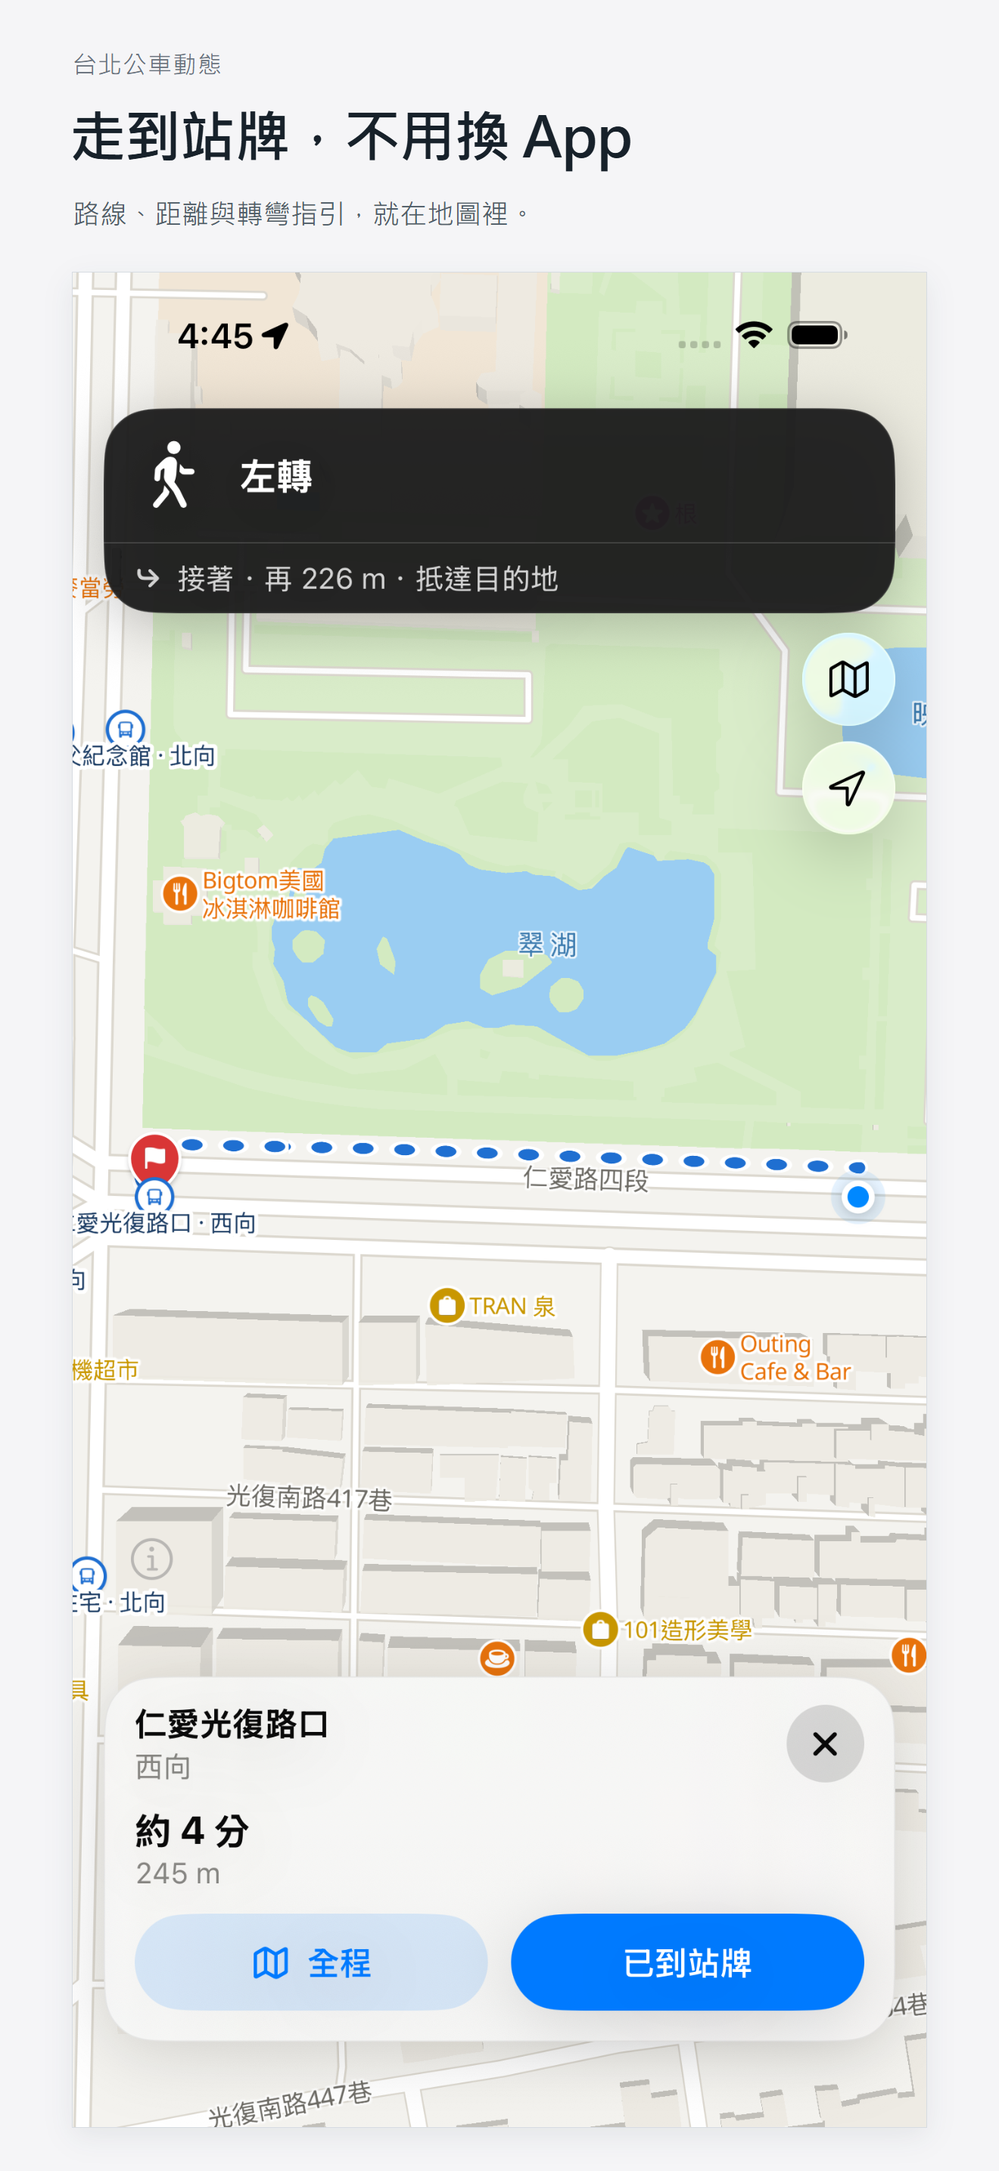
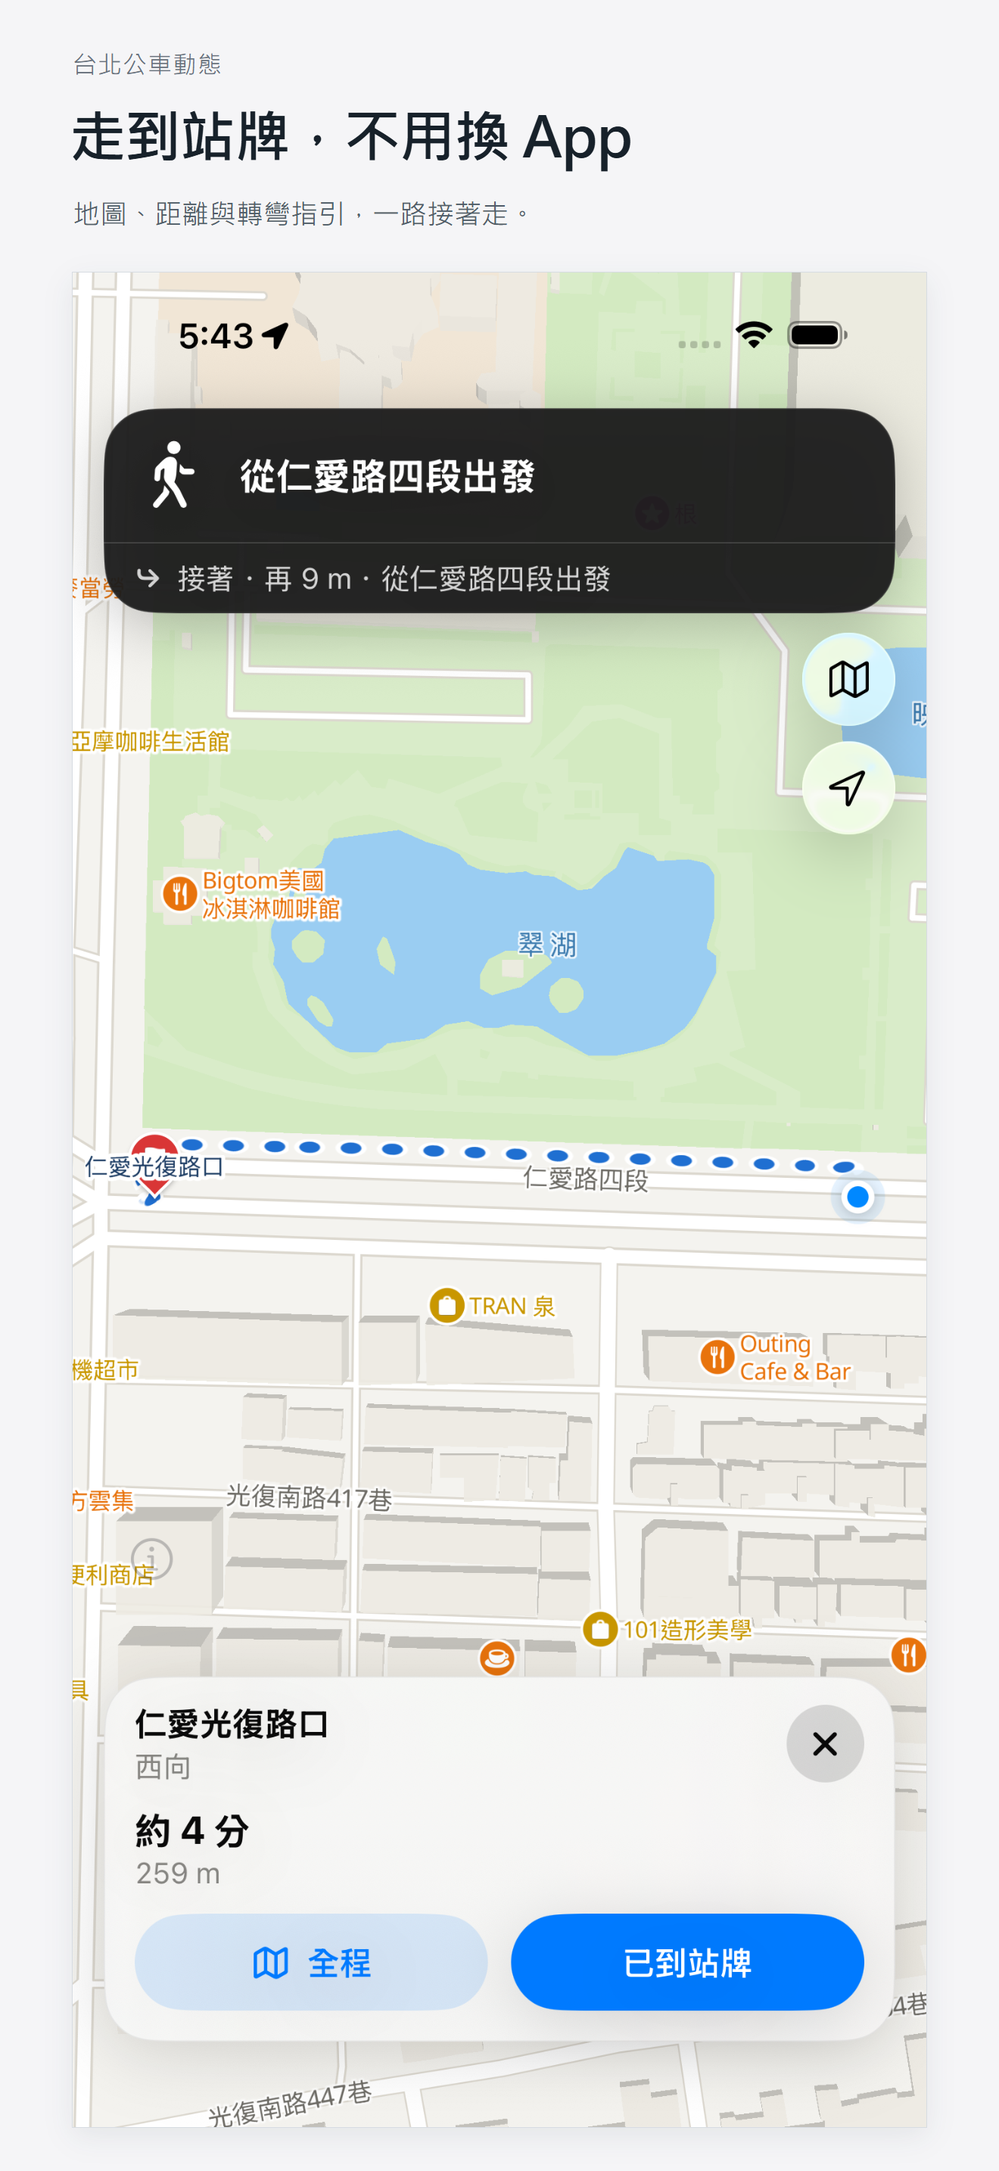
Release 1.8.9 with refreshed App Store gallery and complete Pro submission (#50)
* Prepare fresh subscription review snapshots and real YouBike store captures

* Reuse Apple retained subscription drafts after developer withdrawal

* Authorize 1.8.9 App Store release with current mixed-transit and Pro copy

* Keep App Review instructions within Apple field limit

* Capture current YouBike connections through normal destination search

* Refresh walking marketing capture and restore normal route-preview capture flow

* Keep completed empty route results actionable and capture genuine live bike stations

* Describe the completed empty-results guidance in 1.8.9 release copy [skip ci]

* Add real YouBike station artwork and refresh the approved 3D-first gallery [skip ci]

* Pin App Store 1.8.9 to verified build 149.1.0 and preserve crash symbols [skip ci]

diff --git a/ios/usability/JourneyUsabilityTests.swift b/ios/usability/JourneyUsabilityTests.swift
@@ -521,9 +521,16 @@ final class AppStoreScreenshotTests: JourneyUsabilityTestBase {
         capture("store-12-in-app-walking")
     }
     func testStoreRealDestinationAndItinerary() {
-        launch(["--test-map-controls", "--test-journey-selection", "--preview-neihu-planning"])
+        launch(["--test-map-controls", "--test-journey-selection"])
+        XCTAssertTrue(button("home-destination-search").waitForExistence(timeout: 90))
+        button("home-destination-search").tap(); chooseNeihu()
         let choices = app.buttons.matching(NSPredicate(format:"identifier == %@ OR identifier == %@","journey-all-options","journey-options")).firstMatch
-        XCTAssertTrue(choices.waitForExistence(timeout:90))
+        if !choices.waitForExistence(timeout:90) {
+            XCTAssertTrue(button("journey-retry-search").waitForExistence(timeout: 15))
+            XCTAssertTrue(button("journey-empty-other-transport").exists)
+            capture("store-real-search-closed-service-next-steps")
+            return
+        }
         choices.tap()
         XCTAssertTrue(firstOption.waitForExistence(timeout: 60))
         waitForConfirmedChoices()
@@ -539,6 +546,66 @@ final class AppStoreScreenshotTests: JourneyUsabilityTestBase {
         button("journey-back").tap()
         XCTAssertTrue(button("journey-all-options").waitForExistence(timeout:15))
         capture("store-05-boarding-map")
+    }
+    func testStoreRealYouBikeConnection() {
+        // Real station availability and production routing, with no mock fleet or
+        // synthetic dock counts. This capture must never use --usability-fixture.
+        launch(["--test-map-controls", "--test-journey-selection"])
+        XCTAssertTrue(button("home-destination-search").waitForExistence(timeout: 90))
+        // Use an actual rendered station pin and its fresh operator report. This
+        // remains usable outside metro operating hours and never invents counts.
+        waitRenderedMap { state in
+            state["cameraMoving"] as? Bool == false && !(state["visibleBikePins"] as? [[String: Any]] ?? []).isEmpty
+        }
+        let probe = app.staticTexts["map-camera-state"]
+        let camera = try! JSONSerialization.jsonObject(with: probe.label.data(using: .utf8)!) as! [String: Any]
+        let pins = camera["visibleBikePins"] as? [[String: Any]] ?? []
+        let map = app.descendants(matching: .any).matching(identifier: "native-map").firstMatch
+        let card = app.descendants(matching: .any).matching(identifier: "bike-station-card").firstMatch
+        for pin in pins {
+            guard let x = pin["x"] as? Double, let y = pin["y"] as? Double,
+                  x > 25, x < map.frame.width - 80, y > 110, y < map.frame.height - 210 else { continue }
+            map.coordinate(withNormalizedOffset: .zero).withOffset(CGVector(dx: x, dy: y)).tap()
+            if card.waitForExistence(timeout: 4) { break }
+        }
+        XCTAssertTrue(card.waitForExistence(timeout: 10))
+        let report = app.staticTexts["bike-station-report"]
+        XCTAssertTrue(report.exists)
+        XCTAssertFalse(report.label.contains("資料延遲") || report.label.contains("資料更新中"))
+        capture("store-24-live-youbike-station")
+        button("bike-station-close").tap()
+        button("home-destination-search").tap()
+        chooseNeihu()
+        if !button("journey-all-options").waitForExistence(timeout: 100) {
+            XCTAssertTrue(button("journey-retry-search").waitForExistence(timeout: 15))
+            XCTAssertTrue(button("journey-empty-other-transport").exists)
+            capture("store-real-youbike-search-next-steps")
+            return
+        }
+        button("journey-all-options").tap()
+        XCTAssertTrue(firstOption.waitForExistence(timeout: 100)); waitForConfirmedChoices()
+        capture("store-20-mixed-transit-choices")
+        let bicycle = app.buttons.matching(NSPredicate(format: "identifier BEGINSWITH %@ AND (label CONTAINS %@ OR label CONTAINS %@)", "journey-option-", "YouBike", "騎車")).firstMatch
+        for _ in 0..<4 {
+            if bicycle.exists { break }
+            app.swipeUp()
+        }
+        // Availability and the current departure window can legitimately make a
+        // bike connection noncompetitive; the station capture is still genuine.
+        guard bicycle.waitForExistence(timeout: 10) else { return }
+        let id = String(bicycle.identifier.dropFirst("journey-option-".count))
+        bicycle.tap()
+        XCTAssertTrue(button("journey-steps-" + id).waitForExistence(timeout: 15))
+        capture("store-21-youbike-transit-map")
+        button("journey-steps-" + id).tap()
+        let pickup = app.buttons.matching(NSPredicate(format: "identifier BEGINSWITH %@", "journey-bike-pickup-")).firstMatch
+        for _ in 0..<3 { if pickup.isHittable { break }; app.swipeUp() }
+        XCTAssertTrue(pickup.isHittable)
+        capture("store-22-youbike-transit-steps")
+        pickup.tap()
+        XCTAssertTrue(app.descendants(matching: .any).matching(identifier: "bike-station-card").firstMatch.waitForExistence(timeout: 15))
+        XCTAssertTrue(app.staticTexts["bike-station-report"].exists)
+        capture("store-23-live-youbike-availability")
     }
     func testPrivacyAndSupportAreAccessible() {
         launch()

diff --git a/ios/TaipeiBus/JourneyViews.swift b/ios/TaipeiBus/JourneyViews.swift
@@ -885,11 +885,18 @@ struct JourneyOptionsView: View {
             if planner.planning || model.loading {
                 HStack(spacing: 10) { ProgressView(); Text(live.text("查詢中")).liveFont(.subheadline) }.padding(.vertical, 8)
             }
-            if let message = planner.message { Text(live.text(message)).liveFont(.subheadline).foregroundStyle(.secondary) }
-            if planner.options.isEmpty, planner.message != nil, !planner.planning, !planner.checkingWalks {
+            if let message = planner.message ?? (model.loading ? nil : planner.emptyOptionsMessage) {
+                Text(live.text(message)).liveFont(.subheadline).foregroundStyle(.secondary)
+                    .accessibilityIdentifier("journey-empty-options-message")
+            }
+            if planner.emptyOptionsMessage != nil, !model.loading {
                 Button { planner.plan(metadata:model.metadata) } label: {
                     Label(AppText.text("重新查詢"),systemImage:"arrow.clockwise").frame(minHeight:44)
                 }.buttonStyle(.bordered).accessibilityIdentifier("journey-retry-search")
+                Button { planner.openAppleTransit() } label: {
+                    Label(AppText.text("其他交通方式"), systemImage: "arrow.up.right.square").frame(minHeight:44)
+                }.buttonStyle(.bordered).padding(.top, 8)
+                    .accessibilityIdentifier("journey-empty-other-transport")
             }
             if compact, !planner.options.isEmpty {
                 // Keep the actions outside the paging collection. Its gesture handling and

diff --git a/ios/TaipeiBus/NativeBusMap.swift b/ios/TaipeiBus/NativeBusMap.swift
@@ -1244,6 +1244,16 @@ struct NativeBusMap: UIViewRepresentable {
                 state["walkingAboveBuildings"] = (layerIDs.firstIndex(of: "journey-walking-line") ?? 0) > (layerIDs.firstIndex(of: "building-3d") ?? 0)
                 state["selectedBikeStation"] = model.selectedBikeStationID ?? ""
                 state["selectedBikeReturning"] = model.selectedBikeStationReturning
+                var seenBikePins = Set<String>()
+                state["visibleBikePins"] = mapView.visibleFeatures(in: mapView.bounds, styleLayerIdentifiers: Set(["bike-station-dots", "bike-station-counts"]))
+                    .compactMap { feature -> [String: Any]? in
+                        guard let id = feature.attribute(forKey: "bikeStationID") as? String,
+                              seenBikePins.insert(id).inserted,
+                              let station = model.bikeNetwork.station(id),
+                              model.bikeDock(id)?.isFresh(at: Date()) == true else { return nil }
+                        let point = mapView.convert(station.coordinate.locationCoordinate, toPointTo: mapView)
+                        return ["id": id, "x": point.x, "y": point.y]
+                    }
                 state["plannedBikePins"] = (model.planner.selected?.walks.compactMap(\.bike) ?? []).flatMap { bike -> [[String: Any]] in
                     [(bike.pickup, false), (bike.dropoff, true)].map { station, returning in
                         let point = mapView.convert(station.coordinate.locationCoordinate, toPointTo: mapView)

diff --git a/ios/TaipeiBus/TransitHomeView.swift b/ios/TaipeiBus/TransitHomeView.swift
@@ -110,7 +110,7 @@ struct TransitHomeView: View {
                                 "duration_label": timing?.label ?? "", "waiting_label": timing?.waitingLabel ?? "",
                                 "arrival_label": timing?.arrivalLabel ?? ""]
                         }
-                        let value: [String: Any] = ["itinerary": showJourneyItinerary, "route_panel_open": showJourney, "checking": planner.checkingWalks, "selected": planner.selectedID ?? "", "started": planner.started, "step": planner.stepIndex, "suggestion": model.journeySuggestion?.id ?? "", "comparison_changed": planner.comparisonChanged, "options": records]
+                        let value: [String: Any] = ["itinerary": showJourneyItinerary, "route_panel_open": showJourney, "planning": planner.planning, "checking": planner.checkingWalks, "message": planner.message ?? "", "empty_message": planner.emptyOptionsMessage ?? "", "origin_ready": planner.origin != nil, "metadata_routes": model.metadata.routes.count, "selected": planner.selectedID ?? "", "started": planner.started, "step": planner.stepIndex, "suggestion": model.journeySuggestion?.id ?? "", "comparison_changed": planner.comparisonChanged, "options": records]
                         let data = try? JSONSerialization.data(withJSONObject: value, options: [.sortedKeys])
                         Text(data.map { String(decoding: $0, as: UTF8.self) } ?? "")
                             .font(.system(size: 1)).foregroundStyle(.clear).frame(width: 1, height: 1)

diff --git a/ios/billing/PlanningEngineTests.swift b/ios/billing/PlanningEngineTests.swift
@@ -170,6 +170,18 @@ import MapKit
         XCTAssertEqual(bike.remaining(meters:.nan).total,bike.totalSeconds)
         XCTAssertEqual(bike.remaining(meters:-1).total,0)
     }
+    func testClosedServicesCannotLeaveAnEmptyRouteSheetWithoutANextStep() {
+        let option = transit(), p = planner([option])
+        XCTAssertFalse(p.options.isEmpty)
+        XCTAssertNil(p.emptyOptionsMessage)
+        var closed = TransitSnapshot()
+        closed.estimates = EstimateFeed(seconds:["bus:busa":-3],updatedAt:Date())
+        p.updateSnapshot(closed); p.refreshRecommendations()
+        XCTAssertTrue(p.options.isEmpty)
+        XCTAssertNotNil(p.emptyOptionsMessage)
+        p.finish()
+        XCTAssertNil(p.emptyOptionsMessage, "Finishing a trip must not show an empty-result message on the home screen")
+    }
     func testStreetCacheExpiresAndWalkingAndCyclingRemainSeparate() async throws {
         let p = JourneyPlannerModel(), leg = WalkingLeg(from:a,to:b)
         var calls = 0

diff --git a/ios/TaipeiBus/JourneyPlannerModel.swift b/ios/TaipeiBus/JourneyPlannerModel.swift
@@ -161,6 +161,12 @@ final class JourneyPlannerModel: ObservableObject {
     @Published private(set) var selectedID: String?
     @Published private(set) var planning = false
     @Published private(set) var checkingWalks = false
+    /// A verified pool can still rank to no usable options (for example after
+    /// service ends). Never leave the completed route sheet blank in that case.
+    var emptyOptionsMessage: String? {
+        guard destination != nil, options.isEmpty, !planning, !checkingWalks else { return nil }
+        return message ?? "這趟行程暫無可用方案，可更換出發地或查看其他交通方式。"
+    }
     @Published private(set) var message: String?
     @Published private(set) var started = false
     @Published private(set) var stepIndex = 0

diff --git a/ios/release/review_bundle_test.rb b/ios/release/review_bundle_test.rb
@@ -4,16 +4,17 @@ require_relative 'review_bundle'
 class ReviewBundleTest < Minitest::Test
   class CatalogClient
     attr_reader :writes
-    attr_accessor :price, :screenshot_state, :drop_item, :state, :submitted_date
+    attr_accessor :price, :screenshot_state, :drop_item, :state, :submitted_date, :catalog_state
     def initialize
       @writes, @items, @created = [], [], false
       @price = '39'; @screenshot_state = 'COMPLETE'; @state = 'READY_FOR_REVIEW'
       @app_state, @counter = 'READY_FOR_REVIEW', 0
+      @catalog_state = 'PREPARE_FOR_SUBMISSION'
     end
     def all(path, query = {})
       case path
       when '/v1/apps/app/subscriptionGroups' then [row('group',referenceName:'Pro')]
-      when '/v1/subscriptionGroups/group/versions' then [row('gv',version:1,state:'PREPARE_FOR_SUBMISSION')]
+      when '/v1/subscriptionGroups/group/versions' then [row('gv',version:1,state:@catalog_state)]
       when '/v1/subscriptionGroupVersions/gv/localizations' then localizations
       when '/v1/subscriptionGroups/group/subscriptions'
         [row('month',productId:'pro.monthly',subscriptionPeriod:'ONE_MONTH'),row('year',productId:'pro.yearly',subscriptionPeriod:'ONE_YEAR')]
@@ -26,7 +27,7 @@ class ReviewBundleTest < Minitest::Test
         raise 'Trial validation must request the territory linkage' unless query['include'] == 'territory'
         [{'attributes'=>{'duration'=>'ONE_WEEK','offerMode'=>'FREE_TRIAL','numberOfPeriods'=>1},'relationships'=>{'territory'=>{'data'=>{'id'=>'TWN'}}}}]
       when %r{/v1/subscriptions/(month|year)/versions}
-        [row(path.include?('month') ? 'mv' : 'yv',version:1,state:'PREPARE_FOR_SUBMISSION')]
+        [row(path.include?('month') ? 'mv' : 'yv',version:1,state:@catalog_state)]
       when %r{/v1/subscriptionVersions/(mv|yv)/localizations} then localizations
       when '/v1/apps/app/reviewSubmissions' then @created ? [row('draft',state:@state,platform:'IOS',submittedDate:@submitted_date)] : []
       when '/v1/reviewSubmissions/draft/items'
@@ -82,6 +83,12 @@ class ReviewBundleTest < Minitest::Test
     bundle.prepare('app-version'); @client.writes.clear
     assert bundle.prepare('app-version')[:items_verified]
     assert_empty @client.writes
+  end
+  def test_developer_withdrawn_catalog_can_join_the_new_authorized_app_submission
+    @client.catalog_state = 'DEVELOPER_REJECTED'
+    assert bundle.prepare('app-version')[:items_verified]
+    assert_equal 4, @client.all('/v1/reviewSubmissions/draft/items', 'include'=>'appStoreVersion,subscriptionVersion,subscriptionGroupVersion').length
+    refute @client.writes.any? { |method,_,_| method == :patch }
   end
   def test_unapproved_price_stops_before_creating_a_review_draft
     @client.price = '49'

diff --git a/ios/release/subscription_draft_test.rb b/ios/release/subscription_draft_test.rb
@@ -1,0 +1,41 @@
+require 'minitest/autorun'
+require_relative 'subscription_draft'
+
+class SubscriptionDraftTest < Minitest::Test
+  class Client
+    attr_reader :writes
+    def initialize(states)
+      @versions = states.each_with_index.map { |state, i| { 'id' => "v#{i}", 'attributes' => { 'state' => state, 'version' => i + 1 } } }
+      @writes = []
+    end
+    def all(path) = @versions
+    def request(method, path, query = {}, body = nil)
+      @writes << [method, path, body]
+      { 'data' => { 'id' => 'new', 'attributes' => { 'state' => 'PREPARE_FOR_SUBMISSION' } } }
+    end
+  end
+  def draft(client)
+    TaipeiBusRelease.subscription_draft(client, 'subscriptions', 'plan', 'subscriptionVersions', :subscription)
+  end
+  def test_withdrawn_metadata_reuses_apples_inflight_draft
+    client = Client.new(%w[DEVELOPER_REJECTED])
+    assert_equal 'v0', draft(client)['id']
+    assert_empty client.writes
+  end
+  def test_missing_metadata_version_is_created_for_the_same_product
+    client = Client.new([])
+    assert_equal 'new', draft(client)['id']
+    assert_equal '/v1/subscriptionVersions', client.writes.first[1]
+    assert_equal 'plan', client.writes.first[2][:data][:relationships][:subscription][:data][:id]
+  end
+  def test_retry_reuses_the_latest_prepared_snapshot
+    client = Client.new(%w[DEVELOPER_REJECTED PREPARE_FOR_SUBMISSION READY_FOR_REVIEW])
+    assert_equal 'v2', draft(client)['id']
+    assert_empty client.writes
+  end
+  def test_in_review_catalog_is_never_replaced
+    client = Client.new(%w[DEVELOPER_REJECTED IN_REVIEW])
+    assert_raises(TaipeiBusRelease::Error) { draft(client) }
+    assert_empty client.writes
+  end
+end

diff --git a/ios/release/billing-prepare.rb b/ios/release/billing-prepare.rb
@@ -3,6 +3,7 @@ require 'bigdecimal'
 require 'date'
 require 'digest'
 require_relative 'regional_prices'
+require_relative 'subscription_draft'
 
 # Creates only the user-approved draft catalog. No review submission or contract acceptance.
 config = JSON.parse(File.read(File.join(__dir__,'billing.json')))
@@ -18,9 +19,7 @@ create = ->(path,type,attributes,relationships) {
 }
 link = ->(type,id) { {data:{type:type,id:id}} }
 version_for = ->(parent_type,parent,version_type,relationship) {
-  values = client.all("/v1/#{parent_type}/#{parent}/versions")
-  values.find { |row| %w[PREPARE_FOR_SUBMISSION DEVELOPER_ACTION_NEEDED REJECTED].include?(row.dig('attributes','state')) } ||
-    values.first || create.call("/v1/#{version_type}",version_type,{}, {relationship=>link.call(parent_type,parent)})
+  TaipeiBusRelease.subscription_draft(client,parent_type,parent,version_type,relationship)
 }
 localize = ->(type,version_type,version,attributes) {
   if type == 'subscriptionLocalizations'
@@ -165,3 +164,4 @@ ensure
   save.call
 end
 puts "Billing setup: #{report[:status]}. No App Review submission, contract acceptance or customer charge occurred."
+abort 'Billing preparation was not completed; see the preserved setup receipt.' unless report[:status] == 'draft_catalog_configured'

diff --git a/ios/release/subscription_draft.rb b/ios/release/subscription_draft.rb
@@ -1,0 +1,16 @@
+require_relative 'apple_client'
+
+module TaipeiBusRelease
+  # Apple retains a developer-withdrawn catalog version as its inflight draft.
+  # Reuse it; attempting to create another version returns ALREADY_EXISTS.
+  def self.subscription_draft(client, parent_type, parent_id, version_type, relationship)
+    versions = client.all("/v1/#{parent_type}/#{parent_id}/versions")
+    raise Error, 'Subscription metadata is already under review.' if versions.any? { |row| %w[WAITING_FOR_REVIEW IN_REVIEW].include?(row.dig('attributes', 'state')) }
+    active = versions.select { |row| %w[PREPARE_FOR_SUBMISSION READY_FOR_REVIEW DEVELOPER_REJECTED].include?(row.dig('attributes', 'state')) }
+    return active.max_by { |row| row.dig('attributes', 'version') || 0 } unless active.empty?
+    client.request(:post, "/v1/#{version_type}", {}, data: {
+      type: version_type,
+      relationships: { relationship => { data: { type: parent_type, id: parent_id } } }
+    }).fetch('data')
+  end
+end

diff --git a/ios/release/review_bundle.rb b/ios/release/review_bundle.rb
@@ -123,7 +123,7 @@ module TaipeiBusRelease
     end
     def editable_version(type, id)
       versions = @client.all("/v1/#{type}/#{id}/versions")
-      versions.sort_by { |row| -(row.dig('attributes','version') || 0) }.find { |row| %w[PREPARE_FOR_SUBMISSION READY_FOR_REVIEW WAITING_FOR_REVIEW IN_REVIEW APPROVED].include?(row.dig('attributes','state')) } || raise(Error, 'Subscription metadata version is missing.')
+      versions.sort_by { |row| -(row.dig('attributes','version') || 0) }.find { |row| %w[PREPARE_FOR_SUBMISSION DEVELOPER_REJECTED READY_FOR_REVIEW WAITING_FOR_REVIEW IN_REVIEW APPROVED].include?(row.dig('attributes','state')) } || raise(Error, 'Subscription metadata version is missing.')
     end
   end
 end
